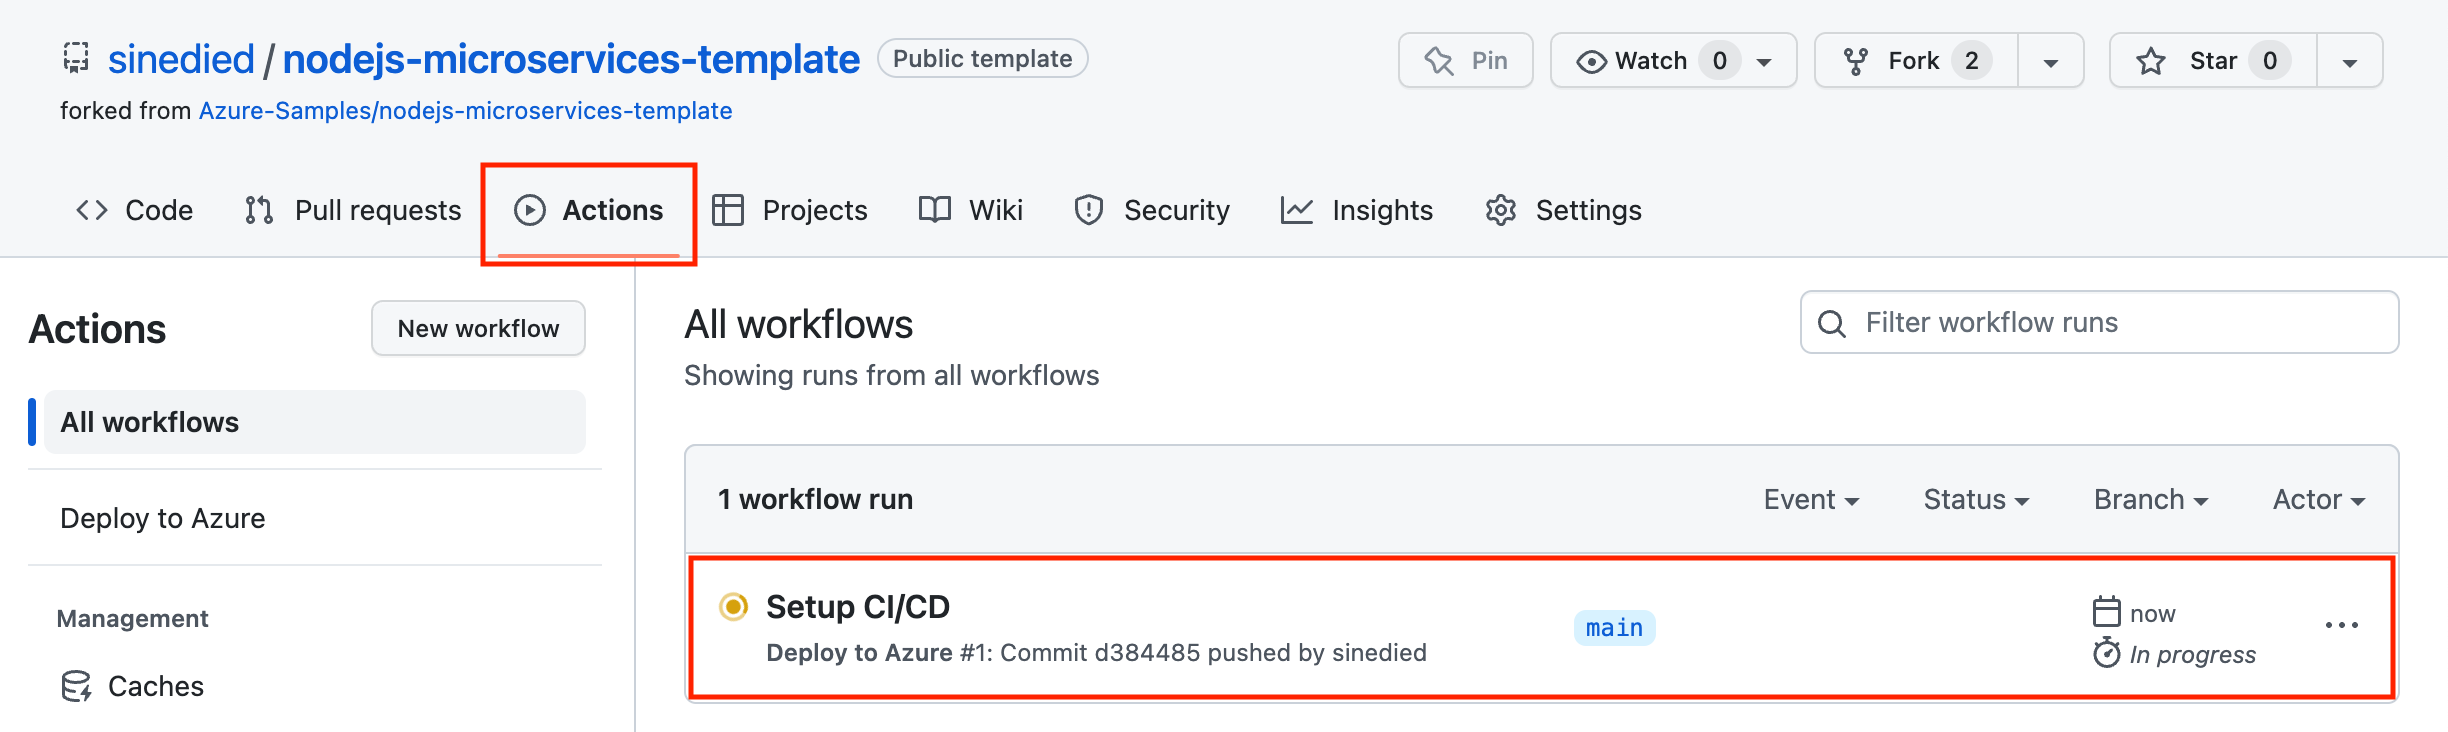
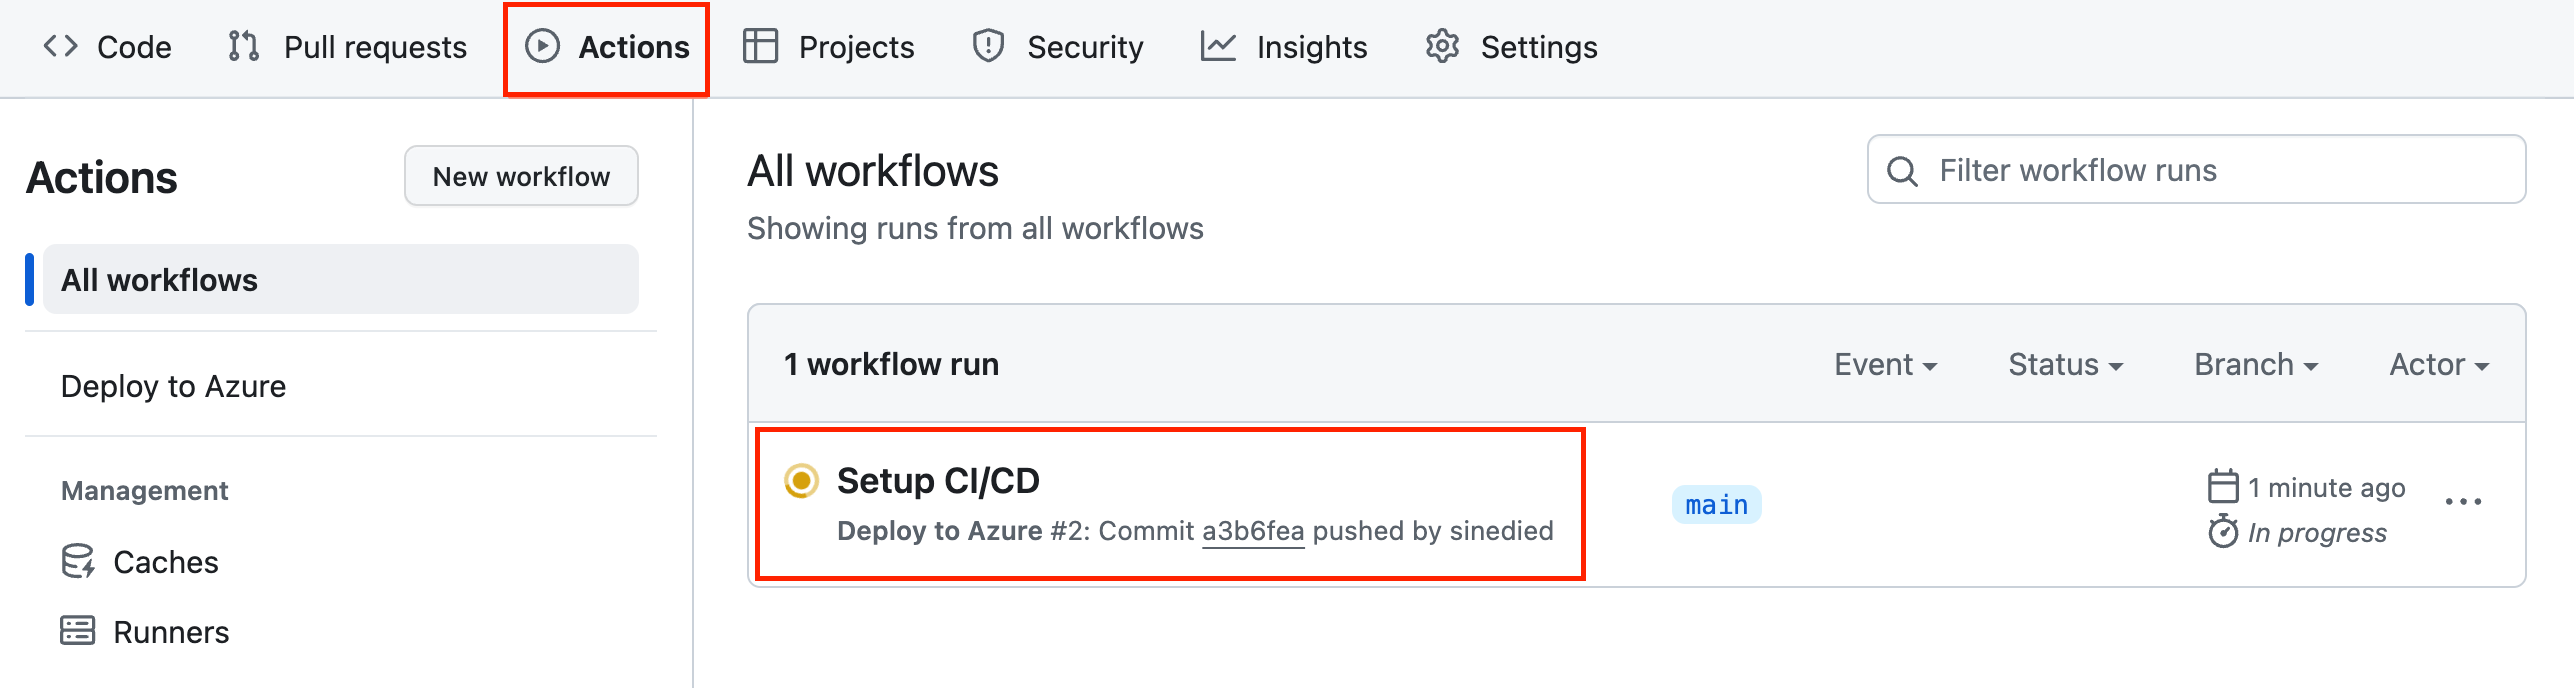
docs: add ci/cd

diff --git a/docs/sections/10.1-ci-cd.md b/docs/sections/10.1-ci-cd.md
@@ -1,0 +1,131 @@
+<div class="info" data-title="skip notice">
+
+> This step is entirely optional, you can skip it if you want to jump directly to the next section.
+
+</div>
+
+## Configuring a CI/CD pipeline
+
+We now have a working deployed application, but deploying it manually every time we make a change is not very convenient. We'll automate this process by creating a CI/CD pipeline, using [GitHub Actions](https://github.com/features/actions).
+
+### What's CI/CD?
+
+CI/CD stands for *Continuous Integration and Continuous Deployment*.
+
+Continuous Integration is a software development practice that requires developers to integrate their code into a shared repository several times a day. Each integration can then be verified by an automated build and automated tests. By doing so, you can detect errors quickly, and locate them more easily.
+
+Continuous Deployment pushes this practice further, by preparing for a release to production after each successful build. By doing so, you can get working software into the hands of users faster.
+
+### What's GitHub Actions?
+
+GitHub Actions is a service that lets you automate your software development workflows. A workflow is a series of steps executed one after the other. You can use workflows to build, test and deploy your code, but you can also use them to automate other tasks, like sending a notification when an issue is created.
+
+It's a great way to automate your CI/CD pipelines, and it's free for public repositories.
+
+### Adding the deployment workflow
+
+To configure our continous deployment, we'll use the [azd pipeline command](https://learn.microsoft.com/azure/developer/azure-developer-cli/configure-devops-pipeline?tabs=GitHub).
+
+First we need to create the GitHub Actions workflow. Create the file `.github/workflows/deploy.yml` in your repository, with this content:
+
+```bash
+name: Deploy to Azure
+on:
+  push:
+    # Run only when commits are pushed to main branch
+    branches:
+      - main
+
+# Set up permissions for deploying with secretless Azure federated credentials
+# https://learn.microsoft.com/en-us/azure/developer/github/connect-from-azure?tabs=azure-portal%2Clinux#set-up-azure-login-with-openid-connect-authentication
+permissions:
+  id-token: write
+  contents: read
+
+jobs:
+  deploy:
+    runs-on: ubuntu-latest
+    env:
+      AZURE_CLIENT_ID: ${{ vars.AZURE_CLIENT_ID }}
+      AZURE_TENANT_ID: ${{ vars.AZURE_TENANT_ID }}
+      AZURE_SUBSCRIPTION_ID: ${{ vars.AZURE_SUBSCRIPTION_ID }}
+      AZURE_OPENAI_URL: ${{ vars.AZURE_OPENAI_URL }}
+    steps:
+      - name: Checkout
+        uses: actions/checkout@v3
+
+      - name: Install azd
+        uses: Azure/setup-azd@v0.1.0
+
+      - name: Log in with Azure (Federated Credentials)
+        if: ${{ env.AZURE_CLIENT_ID != '' }}
+        run: |
+          azd auth login `
+            --client-id "$Env:AZURE_CLIENT_ID" `
+            --federated-credential-provider "github" `
+            --tenant-id "$Env:AZURE_TENANT_ID"
+        shell: pwsh
+
+      - name: Build and deploy application
+        if: ${{ env.AZURE_CLIENT_ID != '' }}
+        run: |
+          azd up --no-prompt
+        env:
+          AZURE_ENV_NAME: ${{ vars.AZURE_ENV_NAME }}
+          AZURE_LOCATION: ${{ vars.AZURE_LOCATION }}
+          AZURE_SUBSCRIPTION_ID: ${{ vars.AZURE_SUBSCRIPTION_ID }}
+```
+
+This is the workflow that will be executed when you push a change to your repository. What it does is log in to Azure using the `azd auth login` command, and then run the `azd up` command to provision the infrastructure, build and deploy the application.
+
+Now we need to configure your GitHub repository environment variables. These will be used by the workflow to authenticate to Azure. To do so, run this command:
+
+```bash
+azd pipeline config
+```
+
+This command will ask you to log in to GitHub and then it will do the setup for you, including:
+- The creation of an [Azure Service Principal](https://learn.microsoft.com/entra/identity-platform/app-objects-and-service-principals?tabs=browser) to authenticate to Azure.
+- The creation of [GitHub secrets](https://docs.github.com/en/actions/security-guides/using-secrets-in-github-actions) in your repository to store the Azure Service Principal credentials.
+
+<div data-visible="$$proxy$$">
+
+Since you're using the provided Open AI proxy service we have deployed, there's one extra environment variable that you need to set.
+
+First we need to log in to GitHub using the [GitHub CLI](https://cli.github.com/):
+
+```bash
+# We need more permissions than provided by default with Codespaces
+unset GITHUB_TOKEN
+gh auth login -w
+```
+
+Once you're logged in, run this command to set the value of the `AZURE_OPENAI_URL` variable in your repository:
+
+```bash
+gh variable set AZURE_OPENAI_URL \
+  --body "$$proxy$$" \
+  --repo <your_github_username>/<your_forked_repository>
+```
+
+</div>
+
+### Testing the deployment workflow
+
+Now that we have our workflow fully configured, we can test it by pushing a change to our repository. Commit your changes and push them to GitHub:
+
+```bash
+git add .
+git commit -m "Setup CI/CD"
+git push
+```
+
+The workflow will run automatically, so we can look at its progress directly on GitHub. Open your repository in a browser, and select the **Actions** tab. You should see the workflow running. It will take a few minutes to complete, but you can follow the progress in the logs by clicking on the running workflow.
+
+![Screenshot showing GitHub Actions workflow running](./assets/gh-actions.png)
+
+Then select the job named **deploy** on the left, and you should see the logs of the workflow.
+
+![Screenshot showing GitHub Actions workflow logs](./assets/gh-workflow-details.png)
+
+When the workflow is complete, you should see a green checkmark.

diff --git a/docs/sections/02-preparation.md b/docs/sections/02-preparation.md
@@ -69,6 +69,7 @@ If you want to work locally without using a dev container, you need to clone the
 | Docker v20+   | [Get Docker](https://docs.docker.com/get-docker) |
 | Node.js v20+  | [Get Node.js](https://nodejs.org) |
 | Azure CLI     | [Get Azure CLI](https://learn.microsoft.com/cli/azure/install-azure-cli#install) |
+| GitHub CLI    | [Get GitHub CLI](https://cli.github.com/manual/installation) |
 | Azure Developer CLI | [Get Azure Developer CLI](https://learn.microsoft.com/azure/developer/azure-developer-cli/install-azd) |
 | GitHub CLI    | [Get GitHub CLI](https://cli.github.com/manual/installation) |
 | Bash v3+      | [Get bash](https://www.gnu.org/software/bash/) (Windows users can use **Git bash** that comes with Git) |
@@ -81,6 +82,7 @@ git --version
 docker --version
 node --version
 az --version
+gh --version
 azd version
 gh --version
 bash --version

diff --git a/docs/_workshop-qdrant.md b/docs/_workshop-qdrant.md
@@ -46,6 +46,10 @@ include::sections/10-deployment.md[]
 
 ---
 
+include::sections/10.1-ci-cd.md[]
+
+---
+
 include::sections/11-improvements.md[]
 
 ---
